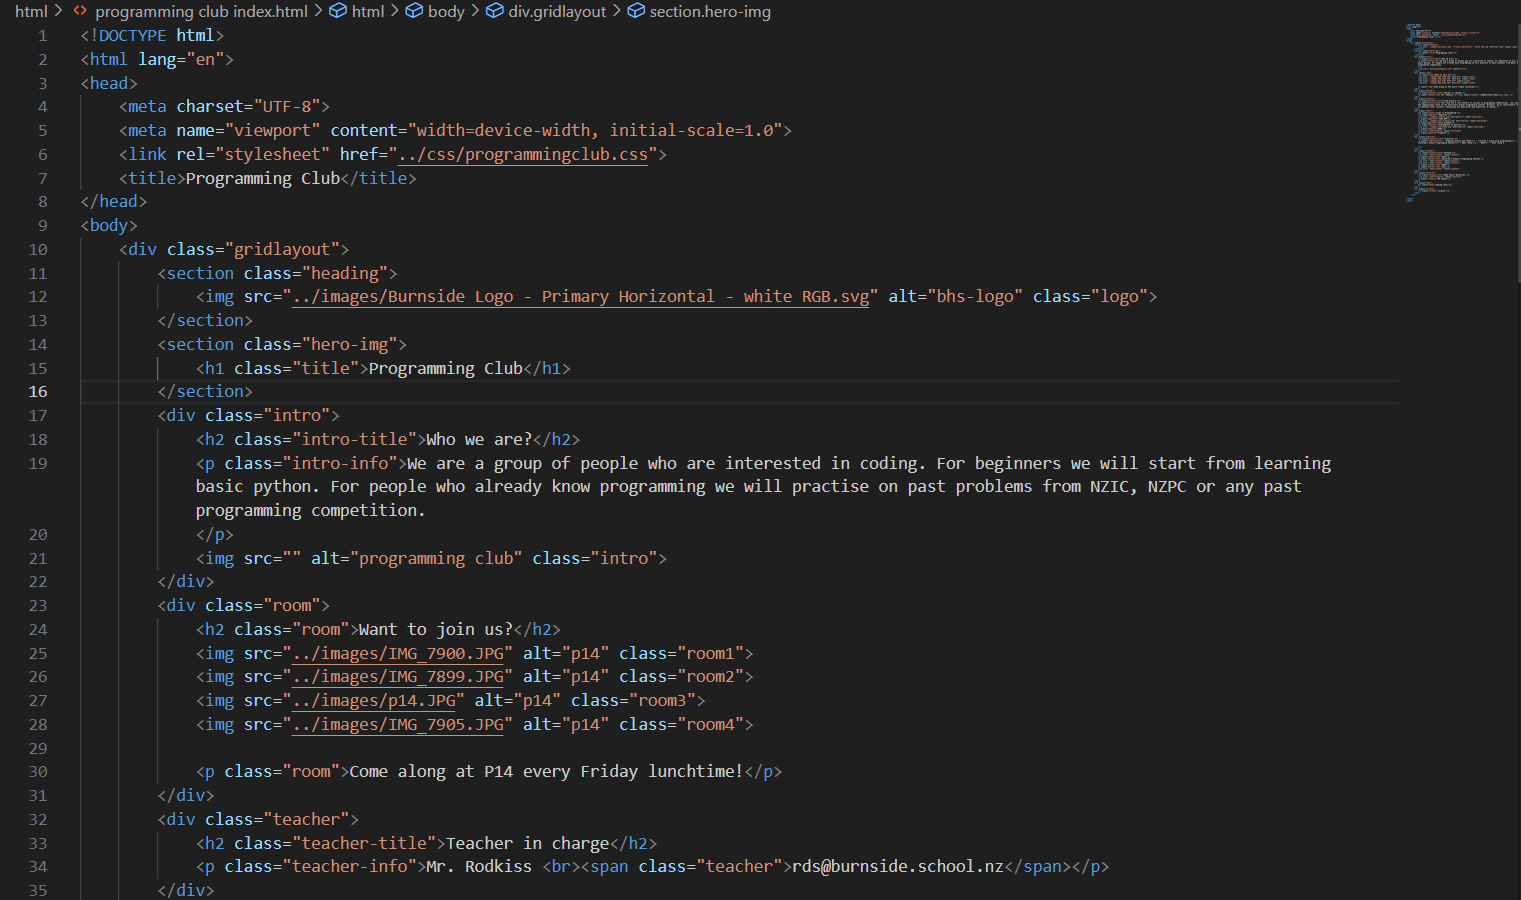
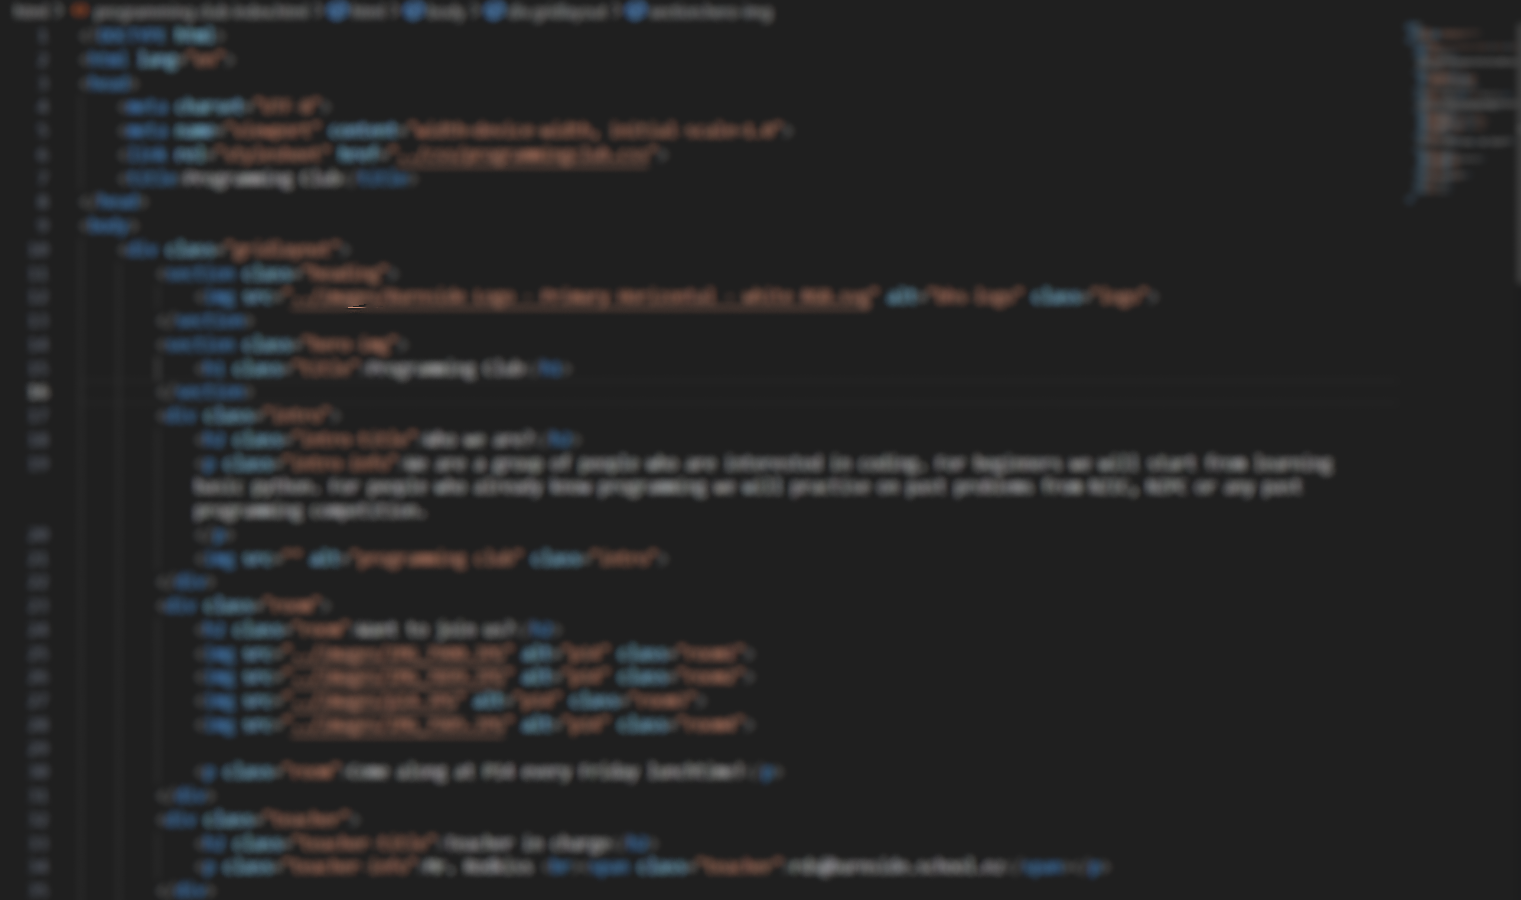
final

diff --git a/index.html b/index.html
@@ -4,19 +4,23 @@
     <meta charset="UTF-8">
     <meta name="viewport" content="width=device-width, initial-scale=1.0">
     <link rel="stylesheet" href="./css/programmingclub.css">
+    <link rel="stylesheet" href="https://cdnjs.cloudflare.com/ajax/libs/font-awesome/6.0.0-beta3/css/all.min.css">
     <title>Programming Club</title>
 </head>
 <body>
     <div class="gridlayout">
-        <section class="heading">
-            <img src="./images/Burnside Logo - Primary Horizontal - white RGB.svg" alt="bhs-logo" class="logo">
-        </section>
+        <nav>
+            <section class="heading">
+                <img src="./images/Burnside Logo - Primary Horizontal - white RGB.svg" alt="bhs-logo" class="logo">
+            </section>
+        </nav>
+        
         <section class="hero-img">
             <h1 class="title">Programming Club</h1>
         </section>
         <div class="intro">
             <h2 class="intro-title">Who we are?</h2>
-            <p class="intro-info">We are a group of people who are interested in coding. For beginners we will start from learning basic python. For people who already know programming we will practise on past problems from NZIC, NZPC or any past programming competition.</p>
+            <p class="intro-info">    We are a group of people who are interested in coding. For beginners we will start from learning basic python. For people who already know programming we will practice on past problems from NZIC, NZPC or any past programming competition.</p>
         </div>
         <div class="room">
             <h2 class="room">Want to join us?</h2>
@@ -26,52 +30,49 @@
                 <img src="./images/p14.JPG" alt="p14" class="room">
                 <img src="./images/IMG_7905.JPG" alt="p14" class="room">
             </div>
-            <p class="room">Come along at Pukehinau 14 every Friday lunchtime!</p>
+            <p class="room">Come along at Pukehinau 14 every Friday lunchtime.</p>
         </div>
         <div class="teacher">
             <h2 class="teacher">Teacher in charge</h2>
-            <p class="teacher-info">Mr. Rodkiss <br><a href="mailto:rds@burnside.school.nz">rds@burnside.school.nz</a></p>
+            <p class="teacher-info">Mr. Rodkiss <br><i class="fa-regular fa-envelope"></i> <a href="mailto:rds@burnside.school.nz">rds@burnside.school.nz</a></p>
         </div>
         <div class="history">
             <h2 class="history">Club history</h2>
-            <p class="history-info">Our club has a rich history of success in programming competitions. Last year, we proudly took home the championship title at the Canterbury School Programming Contest. Moreover, we've consistently ranked among the top six in numerous other contests, showcasing our dedication and expertise in coding.</p>
+            <p class="history-info">    Our club has a rich history of success in programming competitions. Last year, we proudly took home the championship title at the Canterbury School Programming Contest. Moreover, we've consistently ranked among the top six in numerous other contests, showcasing our dedication and expertise in coding.</p>
         </div>
         <div class="level">
             <h2 class="level">Level in Programming</h2>
             <h3 class="level">Beginner</h3>
             <img src="./images/codewof.png" alt="website" class="learning">
-            <p class="beginner"><a href="https://www.codewof.co.nz/" target="_blank" rel="noopener noreferrer">code:WOF</a><br>
-                codeWOF is a free website developed by the University of Canterbury Computer Science Education Research Group in partnership with DTTA to enable teachers and students in New Zealand to practice and maintain their programming skills (your coding warrant of fitness).
+            <p class="beginner"><a href="https://www.codewof.co.nz/" target="_blank" rel="noopener noreferrer">code:WOF</a><br>codeWOF is a free website developed by the University of Canterbury Computer Science Education Research Group in partnership with DTTA to enable teachers and students in New Zealand to practice and maintain their programming skills (your coding warrant of fitness).
             </p>
             <img src="./images/grok-academy.png" alt="website" class="learning">
-            <p class="beginner"><a href="https://groklearning.com/" target="_blank" rel="noopener noreferrer">Grok Academy</a><br>
-                Grok Academy is your home for Digital Technologies education offering classroom-ready online and unplugged resources. Drawing on decades of experience in teaching digital technologies, we provide support through teaching resources, professional learning, and curriculum guidance. As an Australian charity, we aim to empower the next generation with the skills, knowledge, and dispositions they need to become the creators of tomorrow.
+            <p class="beginner"><a href="https://groklearning.com/" target="_blank" rel="noopener noreferrer">Grok Academy</a><br>Grok Academy is your home for Digital Technologies education offering classroom-ready online and unplugged resources. Drawing on decades of experience in teaching digital technologies, we provide support through teaching resources, professional learning, and curriculum guidance. As an Australian charity, we aim to empower the next generation with the skills, knowledge, and dispositions they need to become the creators of tomorrow.
             </p>
             <h3 class="level">Intermediate to Advance</h3>
             <img src="./images/logo-NZOI.svg" alt="website" class="learning">
-            <p class="advance"><a href="https://www.nzoi.org.nz/" target="_blank" rel="noopener noreferrer">NZOI</a><br>
-                NZOI is the New Zealand Olympiad in Informatics, one of a number of Secondary School Olympiads operating under the umbrella organisation known as, NZ Science Olympiads.
+            <p class="advance"><a href="https://www.nzoi.org.nz/" target="_blank" rel="noopener noreferrer">NZOI</a><br>NZOI is the New Zealand Olympiad in Informatics, one of a number of Secondary School Olympiads operating under the umbrella organisation known as, NZ Science Olympiads.
             </p>
             <p class="advance-prog"><a href="https://prog4fun.csse.canterbury.ac.nz/" target="_blank" rel="noopener noreferrer">Prog4fun</a><br>This site aims to support various recreational programming activities, most notably the Programming Contest Problem Archive (PCPA), a collection of programming contest problems from NZPC, ICPC and ANZAC contests, run using CodeRunner.</p>
         </div>
         <div class="timeline">
             <h2 class="timeline-title">Timeline</h2>
-            <p class="timeline">-  Organise groups and teams</p>
-            <p class="timeline">   -  Training + practising programming</p>
-            <p class="timeline">      -  NZIC round 1</p>
-            <p class="timeline">         -  Canterbury School Programming Contest</p>
-            <p class="timeline">            -  NZIC round 2</p>
-            <p class="timeline">               -  NZPC</p>
-            <p class="timeline">                  -  NZIC round 3</p>
+            <p class="timeline"> -  Organise groups and teams</p>
+            <p class="timeline"> -  Training + practising programming</p>
+            <p class="timeline"> -  NZIC round 1</p>
+            <p class="timeline"> -  Canterbury School Programming Contest</p>
+            <p class="timeline"> -  NZIC round 2</p>
+            <p class="timeline"> -  NZPC</p>
+            <p class="timeline"> -  NZIC round 3</p>
         </div>
         <div class="contest">
             <h2 class="contest">Contest</h2>
             <section class="contest">
                 <h3 class="contest-info"><a href="https://www.nzoi.org.nz/nzic/" target="_blank" rel="noopener noreferrer">NZIC</a></h3>
-                <p class="contest">The NZIC online programming contest series, run by the New Zealand Olympiad in Informatics. There will be 3 rounds. In each round, students choose a time during the week of that round to solve a selection of programming problems. The difficulty ranges from entry-level implementation problems to more challenging algorithmic problems.</p>
+                <p class="contest">    The NZIC online programming contest series, run by the New Zealand Olympiad in Informatics. There will be 3 rounds. In each round, students choose a time during the week of that round to solve a selection of programming problems. The difficulty ranges from entry-level implementation problems to more challenging algorithmic problems.</p>
             </section>
             <section class="contest">
-                <h3 class="contest-info"><a href="https://sites.google.com/burnside.school.nz/canterbury-schools-programming/home" target="_blank" rel="noopener noreferrer">Canterbury Schools Programming Contest</a></h3>
+                <h3 class="contest-info"><a href="https://sites.google.com/burnside.school.nz/canterbury-schools-programming/home" target="_blank" rel="noopener noreferrer">    Canterbury Schools Programming Contest</a></h3>
                 <p class="contest">The Canterbury Schools Programming Contest is an annual competition held at the University of Canterbury, where teams of high school students participate in solving algorithmic problems using programming languages like Python and C++. Each team, usually consisting of three members, works collaboratively to complete as many tasks as possible within a time limit, typically three hours.</p>
             </section>
             
@@ -94,7 +95,7 @@
             <h2 class="about">Related link</h2>
 
             <h3 class="inschool">Programming In School</h3>
-            <h4 class="visit">Visit Burnside High School Digital Technologies <a href="https://sites.google.com/burnside.school.nz/bhs-digital-technologies/home" target="_blank" rel="noopener noreferrer">Website</a>!</h4>
+            <h4 class="visit">Visit Burnside High School Digital Technologies <a href="https://sites.google.com/burnside.school.nz/bhs-digital-technologies/home" target="_blank" rel="noopener noreferrer">Website</a>.</h4>
             <h4 class="class">Year 10</h4>
             <p class="info">Choose <a href="https://sites.google.com/burnside.school.nz/bhs-digital-technologies/junior/10dgt" target="_blank" rel="noopener noreferrer">10DGT</a> - Year 10 Digital Technologies</p>
             <h4 class="class">Year 11</h4>

diff --git a/css/programmingclub.css b/css/programmingclub.css
@@ -3,6 +3,7 @@ body {
     font-family: 'Public sans';
     margin: 0;
 }
+
 section.hero-img {
     color: white;
     background-color: rgb(68, 68, 68);
@@ -26,7 +27,11 @@ section.heading {
     display: grid;
     background-color: #003A2C;
 }
-
+nav {
+    position: sticky;
+    top: 0;
+    z-index: 1000;
+}
 img.logo {
     grid-column-start: 1;
     grid-column-end: 2;
@@ -34,28 +39,32 @@ img.logo {
 
     margin: 10px;
 }
-
+div {
+    padding: 1em 10% 2vh 10%;
+}
 div.gridlayout {
     display: grid;
+    padding: 0;
 }
 h2 {
-    margin: 2%;
+    margin: 1% 10%;
     font-size: 3vw;
 }
 h3 {
-    margin: 4%;
+    margin: 2% 11%;
     font-size: 2.3vw;
 }
 h4 {
-    margin: 1% 4.5%;
+    margin: 1% 4%;
     font-size: 2vw;
 }
 p {
-    margin: 1% 5% 2% 5%;
+    margin: 1% 10% 2% 8%;
     font-size: 1.8vw;
     line-height: 1.5em;
-
+    white-space: pre-wrap;
 }
+
 div.intro {
     display: grid;
 }
@@ -77,18 +86,21 @@ div.room {
     
     background-color: #004E42;
     color: white;
-   
+    /* padding-left: 0;
+    padding-right: 0; */
 }
 h2.room {
     grid-row-start: 1;
     grid-row-end: 2;
 }
 div.room-image{
-    margin: 0 2%;
+    margin: 0 10%;
     display: grid;
     grid-template-columns: 14.64% 27.45% 27.45% 27.45%;
     column-gap: 1%;
     align-items: center;
+    padding-left: 0;
+    padding-right: 0;
 
 }
 img.room {
@@ -101,12 +113,9 @@ img.room {
 p.room {
     grid-row-start: 3;
     grid-row-end: 4;
-    /* grid-column-start: 2;
-    grid-column-end: 3;*/
+    /* margin: auto 10%; */
 }
-div.room {
-    width: 100%;
-}
+
 
 div.teacher {
     display: grid;
@@ -134,22 +143,26 @@ h2.history {
 div.level {
     display: grid;
     background-color: white;
-    grid-template-columns: 40% 58%;
+    grid-template-columns: 30% 68%;
     gap: 0 2%;
     place-items: center;
     margin-left: 2vw;
-    max-height: max-content;
 }
 h2.level{
     color: #003A2C;
+    grid-column-start: 1;
+    grid-column-end: 3;
+    margin-left: -40%;
 }
 h3.level {
     color: #004E42;
     grid-column-start: 1;
+    grid-column-end: 3;
+    place-items: start;
 
 }
 p.beginner {
-    margin: 5% 0;
+    margin-bottom: 5%;
 }
 p.advance-prog {
     grid-column-start: 1;
@@ -166,33 +179,36 @@ div.timeline {
     display: grid;
     background-color: #004E42;
     color: white;  
-    white-space: pre;
 }
 
 div.contest {
     display: grid;
     background-color: white;
     grid-template-columns: 50% auto;
+    place-items: center;
+
 
 }
 h2.contest {
     grid-column-start: 1;
     grid-column-end: 3;
     color: #003A2C;
+    margin-left: -55%;
 
 }
 img.contest {
-    max-width: 100%;
+    max-width: 90%;
+    margin-left: 10%;
 }
 section.contest {
     grid-column-start: 1;
     grid-column-end: 3;
 }
 h3.contest-info {
-    margin: 2% 4%;
+    margin: 2% 12%;
 }
 section.nzpc h3 {
-    margin: 4%;
+    margin: 4% 12%;
 }
 
 
@@ -200,21 +216,17 @@ div.achievement {
     display: grid;
     background-color: #003A2C;
     color: white;
-    /* gap: 1% 7%; */
     align-items: center;
+    text-align: center;
     
 }
 div.achimg {
     display: grid;
     grid-template-columns: 43.64% 53.36%;
     gap: 3%;
-    margin: auto 3%;
+    margin: auto 10%;
 }
-h2.result {
-}
-p.achievement {
-    /* font-size: 1.3em; */
-}
+
 img.prize {
     max-width: 100%;
 }
@@ -255,6 +267,7 @@ div.licence {
     color: white;
     text-align: center;
     font-size: 0.75vw;
+    padding: 0;
 }
 p.licence {
     margin: 1%;
